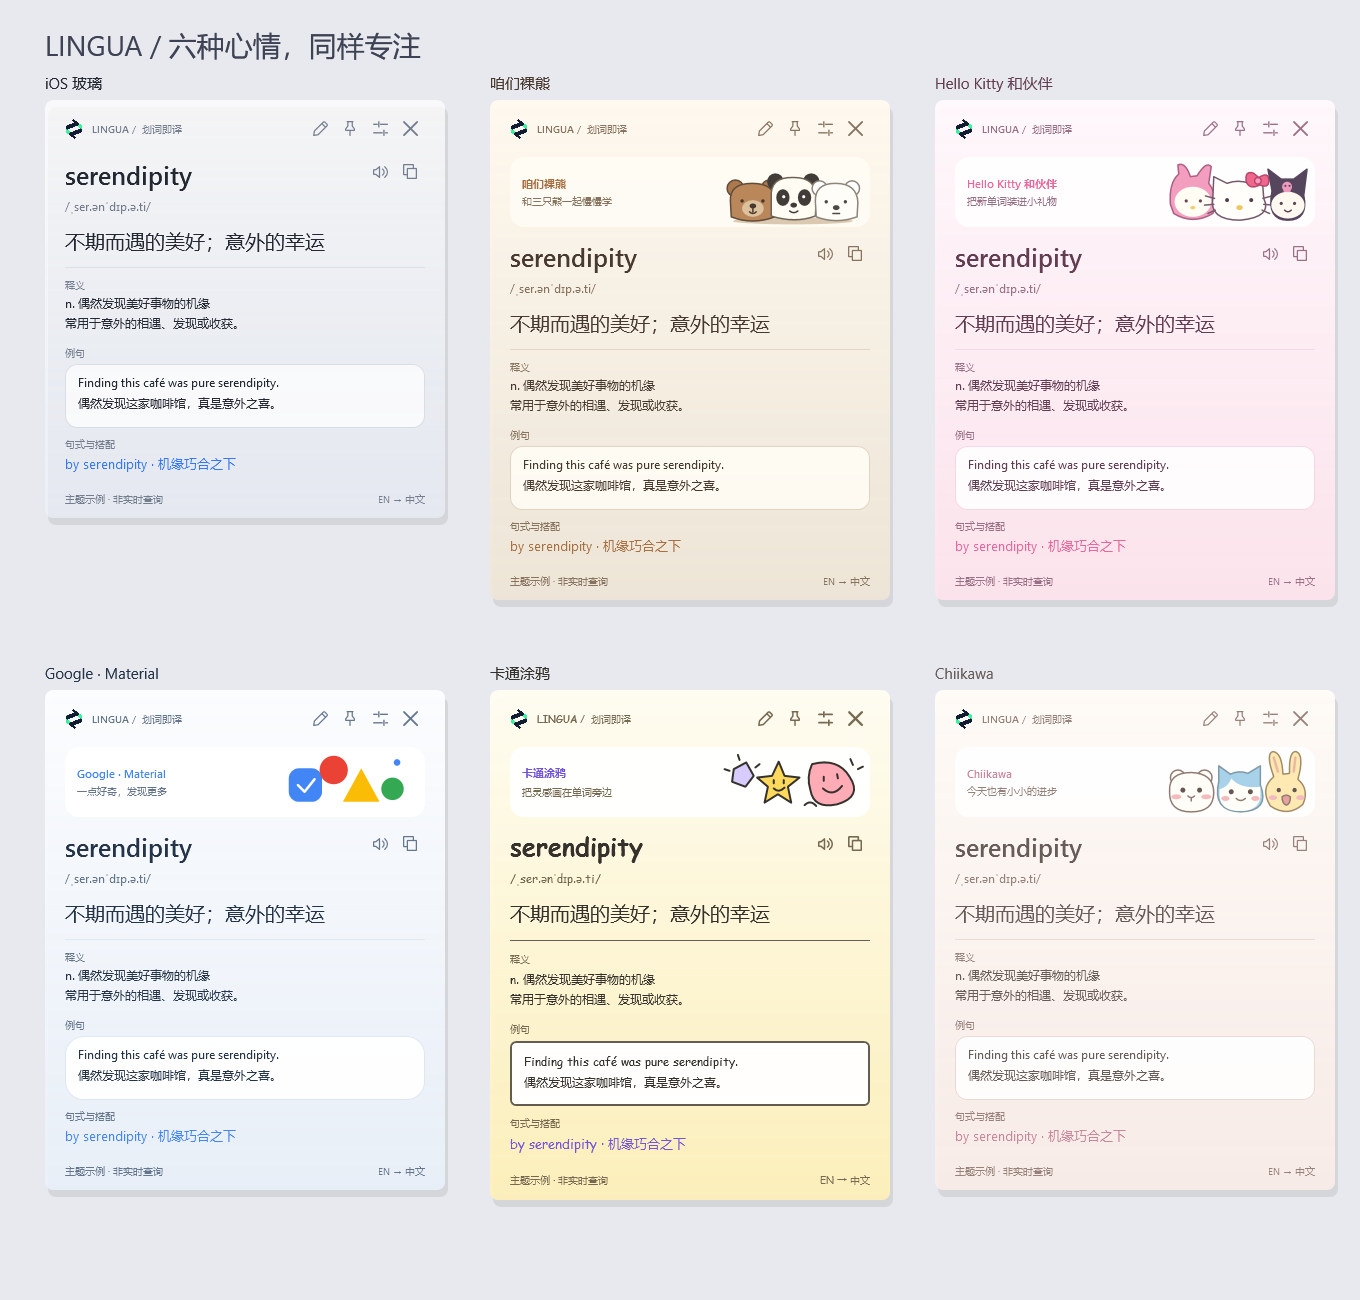
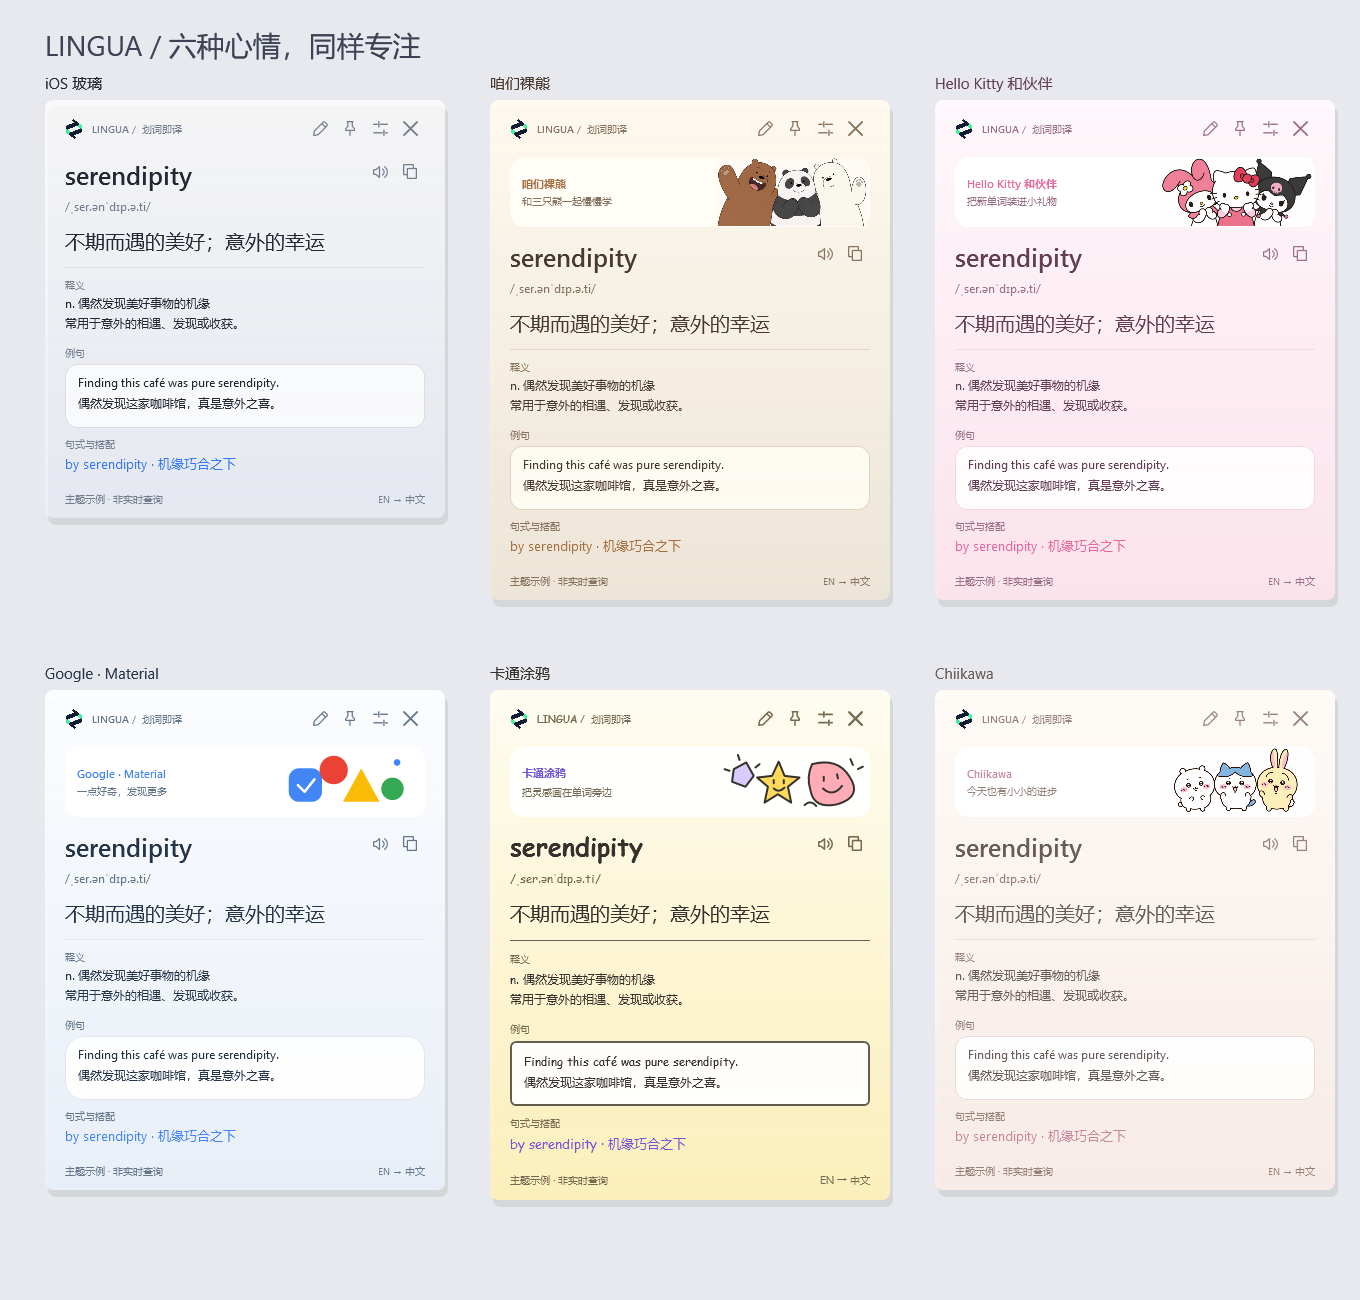
Replace character theme art with AI generated illustrations

Changed region(s): [[0.8338, 0.1231, 0.9574, 0.1846], [0.8647, 0.5538, 0.9574, 0.6462], [0.525, 0.1231, 0.6176, 0.1846]]

diff --git a/Themes.cs b/Themes.cs
@@ -4,6 +4,8 @@ using System.Reflection;
 using System.Xml.Linq;
 using System.Windows;
 using System.Windows.Media;
+using System.Windows.Media.Imaging;
+using System.Collections.Generic;
 namespace LinguaSelect {
 public class CardTheme {
  public string Id,Name,Subtitle,Top,Bottom,Ink,Muted,Accent,Soft,Panel,Line,Font;
@@ -22,7 +24,14 @@ static class Themes {
  static XDocument Load(){using(var s=Assembly.GetExecutingAssembly().GetManifestResourceStream("LinguaSelect.themes.svg"))return XDocument.Load(s);}
  public static CardTheme Get(string id){return All.FirstOrDefault(t=>t.Id==id)??All[0];}
  public static SolidColorBrush Brush(string color){return new SolidColorBrush((Color)ColorConverter.ConvertFromString(color));}
- public static DrawingImage Illustration(string id){
+ static readonly Dictionary<string,ImageSource> images=new Dictionary<string,ImageSource>();
+ public static ImageSource Illustration(string id){
+  ImageSource cached;if(images.TryGetValue(id,out cached))return cached;
+  if(id=="bears"||id=="kitty"||id=="chiikawa"){
+   using(var stream=Assembly.GetExecutingAssembly().GetManifestResourceStream("LinguaSelect.themes."+id+".png")){
+    var bitmap=new BitmapImage();bitmap.BeginInit();bitmap.CacheOption=BitmapCacheOption.OnLoad;bitmap.DecodePixelWidth=600;bitmap.StreamSource=stream;bitmap.EndInit();bitmap.Freeze();images[id]=bitmap;return bitmap;
+   }
+  }
   var symbol=art.Descendants().First(x=>x.Name.LocalName=="symbol"&&(string)x.Attribute("id")==id);var drawing=new DrawingGroup();
   drawing.Children.Add(new GeometryDrawing(Brushes.Transparent,null,new RectangleGeometry(new Rect(0,0,180,80))));
   foreach(var p in symbol.Elements()){
@@ -35,7 +44,7 @@ static class Themes {
    string fill=(string)p.Attribute("fill"),stroke=(string)p.Attribute("stroke");Pen pen=stroke==null||stroke=="none"?null:new Pen(Brush(stroke),p.Attribute("stroke-width")==null?1.8:N(p,"stroke-width")){StartLineCap=PenLineCap.Round,EndLineCap=PenLineCap.Round,LineJoin=PenLineJoin.Round};
    drawing.Children.Add(new GeometryDrawing(fill==null||fill=="none"?null:Brush(fill),pen,geo));
   }
-  drawing.Freeze();return new DrawingImage(drawing);
+  drawing.Freeze();var vector=new DrawingImage(drawing);vector.Freeze();images[id]=vector;return vector;
  }
  static double N(XElement e,string n){return e.Attribute(n)==null?0:double.Parse((string)e.Attribute(n),System.Globalization.CultureInfo.InvariantCulture);}
 }

diff --git a/GlassWindow.cs b/GlassWindow.cs
@@ -134,7 +134,7 @@ class GlassWindow : Window {
   shell.Resources["Ink"]=Themes.Brush(theme.Ink);shell.Resources["Muted"]=Themes.Brush(theme.Muted);shell.Resources["AccentBrush"]=Themes.Brush(theme.Accent);shell.Resources["AccentSoftBrush"]=Themes.Brush(theme.Soft);shell.Resources["PanelBrush"]=Themes.Brush(theme.Panel);shell.Resources["LineBrush"]=Themes.Brush(theme.Line);
   Foreground=Themes.Brush(theme.Ink);FontFamily=new FontFamily(theme.Font);foreach(var pen in iconPens){pen.Brush=Themes.Brush(theme.Muted);pen.Thickness=theme.Id=="doodle"?2.1:1.65;}
   var example=Find<Border>("ExampleSurface");example.CornerRadius=new CornerRadius(theme.Id=="google"?18:theme.Id=="doodle"?5:12);example.BorderThickness=new Thickness(theme.Id=="doodle"?1.7:1);
-  Find<Image>("ThemeArt").Source=Themes.Illustration(theme.Id);Set("ThemeName",theme.Name);Set("ThemeSubtitle",theme.Subtitle);Visible("ThemeBanner",theme.Id!="ios");
+  Find<Image>("ThemeArt").Source=Themes.Illustration(theme.Id);Find<Border>("ThemeBanner").Background=Themes.Brush(theme.Id=="bears"?"#FFFDF6":theme.Id=="kitty"||theme.Id=="chiikawa"?"#FFFFFF":theme.Panel);Set("ThemeName",theme.Name);Set("ThemeSubtitle",theme.Subtitle);Visible("ThemeBanner",theme.Id!="ios");
   Find<TextBlock>("Original").FontWeight=theme.Id=="google"?FontWeights.Medium:FontWeights.SemiBold;
   if(pinButton!=null)pinButton.Background=pinned?Themes.Brush(theme.Soft):Brushes.Transparent;if(settingsButton!=null)settingsButton.Background=preferences?Themes.Brush(theme.Soft):Brushes.Transparent;
   foreach(var b in themeButtons){var t=(CardTheme)b.Tag;b.Background=Themes.Brush(t.Id==theme.Id?t.Soft:t.Panel);var text=((StackPanel)((Grid)b.Content).Children[1]).Children[0] as TextBlock;text.Text=t.Name+(t.Id==theme.Id?" ✓":"");}

diff --git a/assets/themes/PROMPTS.md b/assets/themes/PROMPTS.md
@@ -1,0 +1,16 @@
+# AI 角色素材生成记录
+
+工具：内置 image_gen。最终 PNG 使用与卡片匹配的纯色底，避免透明抠图损坏角色内部。
+
+## bears.png — 最终生成提示词
+A clean 2D illustration of We Bare Bears Grizz, Panda, and Ice Bear, canonical cartoon character designs, standing close together from the waist up, friendly smiles, Grizz waving. Solid warm brown Grizz body, black and white Panda, ivory Ice Bear. Wide horizontal group 2.2:1, characters fill canvas. Opaque solid warm cream #FFFDF6 background. NO TRANSPARENCY, no checkerboard, no patterns, no words. Flat clean cartoon fills and crisp dark outlines, no fur or texture. UI character illustration for small display.
+
+## kitty.png — 最终生成提示词
+Clean professional 2D Sanrio character illustration on a pure white #FFFFFF solid opaque background. My Melody left, Hello Kitty center, Kuromi right, standing closely together with upper bodies, canonical recognizable character designs. My Melody pink rabbit hood, white face and yellow nose; Hello Kitty white cat face, NO mouth, 3 whiskers each cheek, yellow nose, pink-red bow at viewer right ear, pink dress; Kuromi black jester hood with central pink skull and white face. Soft friendly poses, faces and ears fully within frame, original character proportions. Wide 2.2:1 composition filled by characters, small margin. Clean solid flat colors and dark outlines, no transparency, no checkerboard, no texture, no text or watermark. This is a small desktop UI banner illustration.
+
+## chiikawa.png — 初始生成提示词
+Use case: illustration-story. Asset type: transparent PNG character banner for small desktop UI. Faithful recognizable Chiikawa characters: Chiikawa white round little creature left, Hachiware white blue bicolor cat center with canonical blue ears and blue head patch parted above white face, Usagi pale yellow rabbit right with very long upright ears. All three show their tiny round full bodies and tiny paws, pink blush, glossy small black oval eyes, signature small mouths and characteristic cute expressions; Chiikawa timid smile, Hachiware cheerful open smile, Usagi spirited open mouth. Canonical Japanese Chiikawa anime 2D line art, clean fine dark brown contours, flat pastel colors, authentic face proportions and squat shapes, no realistic fur, no generic emoji. Compact side by side wide group about 2:1, entire bodies and rabbit ears inside canvas, minimal transparent padding. Genuine transparent alpha background. No text, watermark, white rectangle, scenery or UI mockup. Polished sticker illustration which reads at 150x68 pixels.
+
+## chiikawa.png — 最终修正提示词
+Edit this Chiikawa, Hachiware and Usagi illustration into a clean FULLY OPAQUE UI asset. Repair all accidental transparent holes and ragged pixels: opaque WHITE Chiikawa body; opaque WHITE and pale BLUE Hachiware; opaque pale YELLOW Usagi with pink inner ears; opaque dark brown outlines and facial features. Keep these characters and poses, original proportions, cute faces and full-body composition. No alpha transparency anywhere. Background must be perfectly uniform pure WHITE #FFFFFF, NO checkerboard, no texture or scenery. Smooth clean flat cartoon colors, clean lines, no mottling. No text or new elements.
+

diff --git a/README.md b/README.md
@@ -6,7 +6,7 @@
 
 ## 下载与运行
 
-在本仓库的 **Releases** 下载 `LinguaSelect-v2.3.0-Windows.zip`，解压后双击 `LinguaSelect.exe`。
+在本仓库的 **Releases** 下载 `LinguaSelect-v2.3.1-Windows.zip`，解压后双击 `LinguaSelect.exe`。
 
 - Windows 10 / 11，需 .NET Framework 4.8。
 - Windows 11 22H2 及以后支持系统 Acrylic 背景；其他环境使用半透明卡片回退。
@@ -28,7 +28,7 @@
 
 ## 卡片主题
 
-右上角「自定义」→「卡片主题」即可切换。每套包含配色、控件样式和内置 SVG 装饰；角色与品牌主题为非官方设计。
+右上角「自定义」→「卡片主题」即可切换。每套包含配色、控件样式和内置插画。咱们裸熊、Hello Kitty 和伙伴、Chiikawa 使用 AI 生成的 PNG 角色素材；其他主题保留 SVG。角色与品牌主题为非官方设计。
 
 ![六套卡片主题，使用示例文本](主题总览.png)
 
@@ -92,6 +92,7 @@ Start-Process .\LinguaSelect.exe -ArgumentList '--ui-test' -Wait
 - `ServicePresets.cs`：服务商、模型与参数预设。
 - `assets/logo.png` / `assets/app.ico`：应用 Logo 与多尺寸 Windows 图标。
 - `icons.svg`：操作图标。
+- `assets/themes`：AI 角色插画与生成提示词。
 - `Themes.cs` / `themes.svg`：主题配置与矢量装饰；`--theme-preview` 生成六套主题预览。
 
 详细说明见 [使用说明.md](使用说明.md)。项目尚未指定开源许可证。
